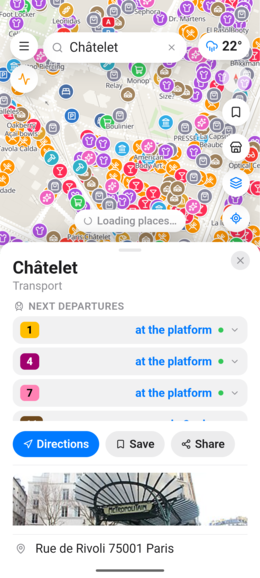
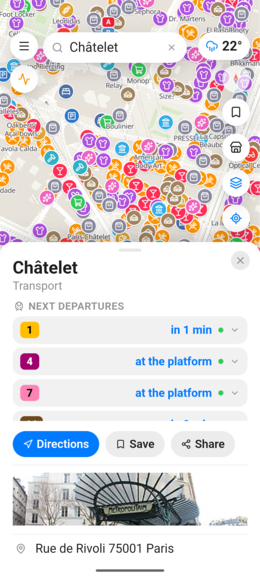
0.1.0-alpha.81 : l'état de la carte se relit au repos (message de chargement bloqué), capture Châtelet

Changed region(s): [[0.2769, 0.3426, 0.7385, 0.4048], [0.5231, 0.5606, 0.8, 0.5917]]

diff --git a/app/src/components/MapView.tsx b/app/src/components/MapView.tsx
@@ -658,6 +658,14 @@ export const MapView = memo(function MapView({
       // milliers d'entités à chaque fois n'apporte rien de plus à l'écran.
       if (e.sourceId === VECTOR_SOURCE_ID && e.isSourceLoaded) scheduleRefreshPois();
     });
+    // Filet de sécurité : la carte au repos et tout chargé (`idle`, émis une
+    // fois par retour au calme), l'état est relu. Sans lui, « Chargement des
+    // commerces… » restait affiché indéfiniment quand le dernier `sourcedata`
+    // tombait pendant le vol vers un résultat de recherche (constaté sur
+    // Châtelet : source chargée, carte immobile, message toujours là).
+    map.on("idle", () => {
+      if (!brandRef.current) scheduleRefreshPois();
+    });
 
     // Le cap est rapporté au degré près : l'aiguille de la boussole n'a pas
     // besoin de plus, et chaque valeur distincte coûte un rendu de

diff --git a/docs/release-notes-0.1.0-alpha.81.md b/docs/release-notes-0.1.0-alpha.81.md
@@ -28,7 +28,7 @@ The map tiles only carry a fixed list of place types. Cheese shops, pastry shops
 - **From 0.1.0-alpha.16 or earlier:** that build was signed with a development key, so Android will refuse to install over it. Uninstall first — which **erases downloaded offline maps, saved places, history and settings.**
 
 ## Docker
-The web version for larger screens is published with this release: `ghcr.io/gris-s/my-osm:latest` and `ghcr.io/gris-s/my-osm:0.1.0-alpha.80`. See [docker/README.md](https://github.com/Gris-S/my-osm/blob/main/docker/README.md). In a browser, signing in to OpenStreetMap shows a code to copy once.
+The web version for larger screens is published with this release: `ghcr.io/gris-s/my-osm:latest` and `ghcr.io/gris-s/my-osm:0.1.0-alpha.81`. See [docker/README.md](https://github.com/Gris-S/my-osm/blob/main/docker/README.md). In a browser, signing in to OpenStreetMap shows a code to copy once.
 
 ## Good to know
 - **No API keys are bundled.** Without keys, public transport runs on [Transitous](https://transitous.org) everywhere. Optional free keys (Paris region transport, TomTom, Mapillary, Météo-France) go in **Menu › API**.
@@ -36,5 +36,5 @@ The web version for larger screens is published with this release: `ghcr.io/gris
 - Android 7.0 (API 24) or later. This is an alpha: things may break.
 
 ## File
-`MY-OSM-0.1.0-alpha.80.apk`
-SHA-256 `SHA256_PLACEHOLDER`
+`MY-OSM-0.1.0-alpha.81.apk`
[1 lines of base64/hex data omitted]

diff --git a/app/CLAUDE.md b/app/CLAUDE.md
@@ -2250,6 +2250,12 @@ sport, mémorial.
   13 s et `private.coffee` muet. Un échec se retente au bout d'une minute, pas
   en boucle, et **se dit** : état `partial` de `MapStatus` (« certains
   commerces n'ont pas pu être chargés »). Pas de manque silencieux.
+  En revanche, **leur chargement ne met pas la carte « en chargement »** : les
+  autres commerces sont déjà là, et Overpass chargé peut mettre une minute.
+- **`idle` relit l'état de la carte** (`MapView`) : « Chargement des
+  commerces… » restait affiché indéfiniment quand le dernier `sourcedata`
+  tombait pendant le vol vers un résultat de recherche (Châtelet : source
+  chargée, carte immobile, message toujours là).
 - **`overpass.kumi.systems` a été retiré** d'`OVERPASS_URLS` : absent de la
   liste du wiki OSM et muet à chaque essai.
 - Si cette liste de tuiles change (mise à jour d'OpenMapTiles), refaire la
